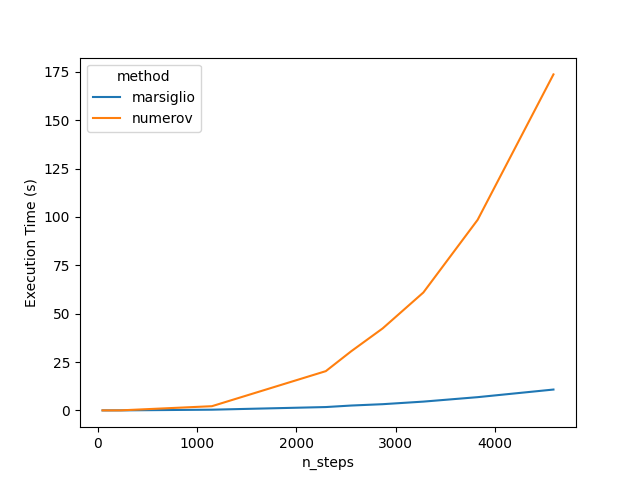
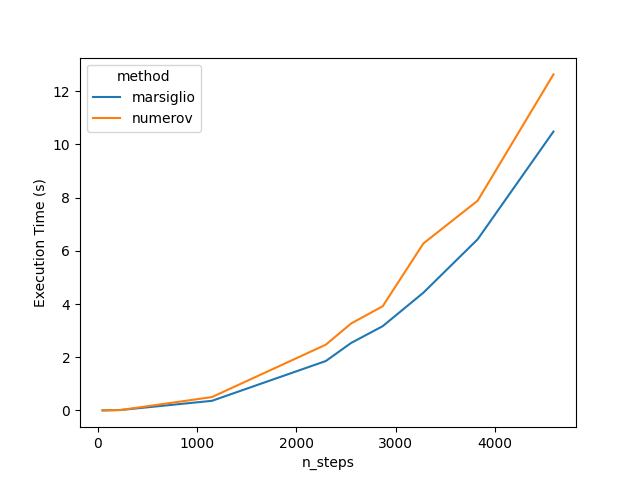
Modified numerov method to use tridiagonal solver
The system of equations we are solving in the numerov
method is tridiagonal. This allows us to use specialized
solvers that will acheive quadratic complexity for this
step. This makes the numerov and marsiglio method more
comparable in time complexity. See the new results.

diff --git a/src/tise_solver/numerov.py b/src/tise_solver/numerov.py
@@ -68,15 +68,31 @@ def numerov(widths: List[float],
 
     if method == 'dense':
         V = np.diag(v)
-        A = (-1.0 / beta) * (1.0 / dx ** 2.0) * (np.diag(-2.0 * np.ones(n_steps)) +
-                                                 np.diag(np.ones(n_steps - 1), -1) +
-                                                 np.diag(np.ones(n_steps - 1), 1))
-        B = (1 / 12) * (np.diag(10 * np.ones(n_steps)) +
-                        np.diag(np.ones(n_steps - 1), -1) +
-                        np.diag(np.ones(n_steps - 1), 1))
-        sys_eq = np.linalg.lstsq(B, A, rcond=None)[0] + V
+        # A = (-1.0 / beta) * (1.0 / dx ** 2.0) * (np.diag(-2.0 * np.ones(n_steps)) +
+        #                                          np.diag(np.ones(n_steps - 1), -1) +
+        #                                          np.diag(np.ones(n_steps - 1), 1))
+        A = np.zeros((n_steps, n_steps), order='F')
+        np.fill_diagonal(A, (-1.0 / beta) * (1.0 / dx ** 2.0) * -2.0)
+        np.fill_diagonal(A[1:,:], (-1.0 / beta) * (1.0 / dx ** 2.0))
+        np.fill_diagonal(A[:, 1:], (-1.0 / beta) * (1.0 / dx ** 2.0))
+
+        # B = (1 / 12) * (np.diag(10 * np.ones(n_steps)) +
+        #                 np.diag(np.ones(n_steps - 1), -1) +
+        #                 np.diag(np.ones(n_steps - 1), 1))
+
+        # sys_eq = np.linalg.lstsq(B, A, rcond=None)[0] + V
+        B_diag = 10.0 / 12.0 * np.ones(n_steps)
+        B_off_diag = (1 / 12.0) * np.ones(n_steps - 1)
+
+        # Solve the system of equations in place
+        scipy.linalg.lapack.dptsv(B_diag, B_off_diag, A,
+                                  overwrite_d=True,
+                                  overwrite_e=True,
+                                  overwrite_b=True)
+        A = A + V
+
         #E, psi = np.linalg.eig(sys_eq)
-        E, psi, info = dsyevd(sys_eq)
+        E, psi, info = dsyevd(A)
 
     elif method == 'sparse':
         V = scipy.sparse.diags([v], [0], format='csc')
